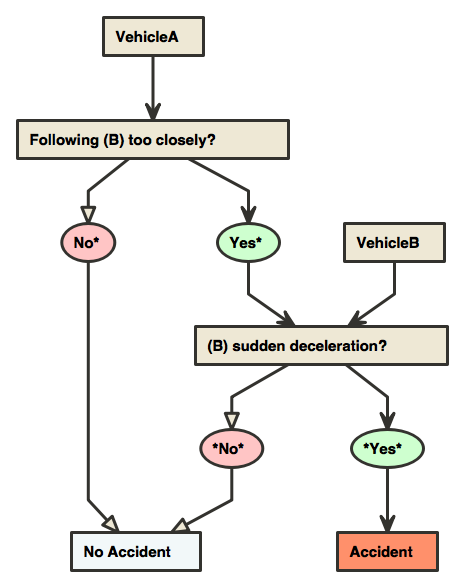
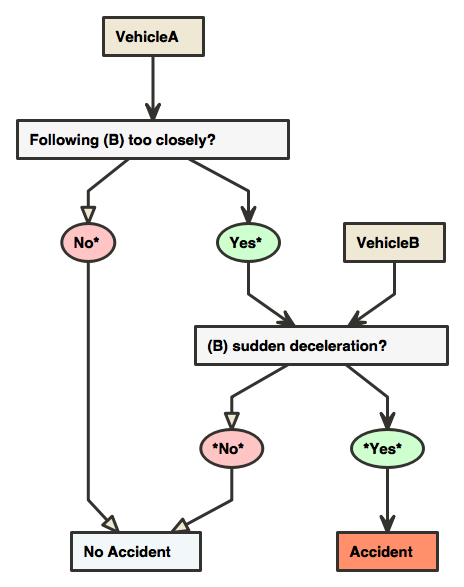
Quick save...

Changed region(s): [[0.0302, 0.184, 0.6336, 0.276], [0.4224, 0.552, 0.9655, 0.644]]

diff --git a/accident_case_a1.js b/accident_case_a1.js
@@ -6,17 +6,18 @@ ${styles._.header}
 
 ${styles._.accident}
 ${styles._.ignore}
+${styles._.condition}
 ${styles._.yes}
 ${styles._.no}
 
-[VehicleA] -> [Following (B) too closely?]
-[Following (B) too closely?] --:> [<no> No*]
-[Following (B) too closely?] -> [<yes> Yes*]
-[<yes> Yes*] -> [(B) sudden deceleration?]
-[VehicleB] -> [(B) sudden deceleration?]
+[VehicleA] -> [<condition> Following (B) too closely?]
+[<condition> Following (B) too closely?] --:> [<no> No*]
+[<condition> Following (B) too closely?] -> [<yes> Yes*]
+[<yes> Yes*] -> [<condition> (B) sudden deceleration?]
+[VehicleB] -> [<condition> (B) sudden deceleration?]
 
-[(B) sudden deceleration?] --:> [<no> *No*]
-[(B) sudden deceleration?] -> [<yes> *Yes*]
+[<condition> (B) sudden deceleration?] --:> [<no> *No*]
+[<condition> (B) sudden deceleration?] -> [<yes> *Yes*]
 
 [<no> No*] --:> [<ignore> No Accident]
 [<no> *No*] --:> [<ignore> No Accident]

diff --git a/styles.js b/styles.js
@@ -8,6 +8,7 @@ const x = {
   `,
   accident: '#.accident: fill=#ff906b bold',
   ignore: '#.ignore: fill=#f2f8f9 bold',
+  condition: '#.condition: fill=#f6f6f6 bold italic',
   yes: '#.yes: fill=#ceffcf visual=ellipse bold',
   no: '#.no: fill=#ffc5c5 visual=ellipse bold',
 };
